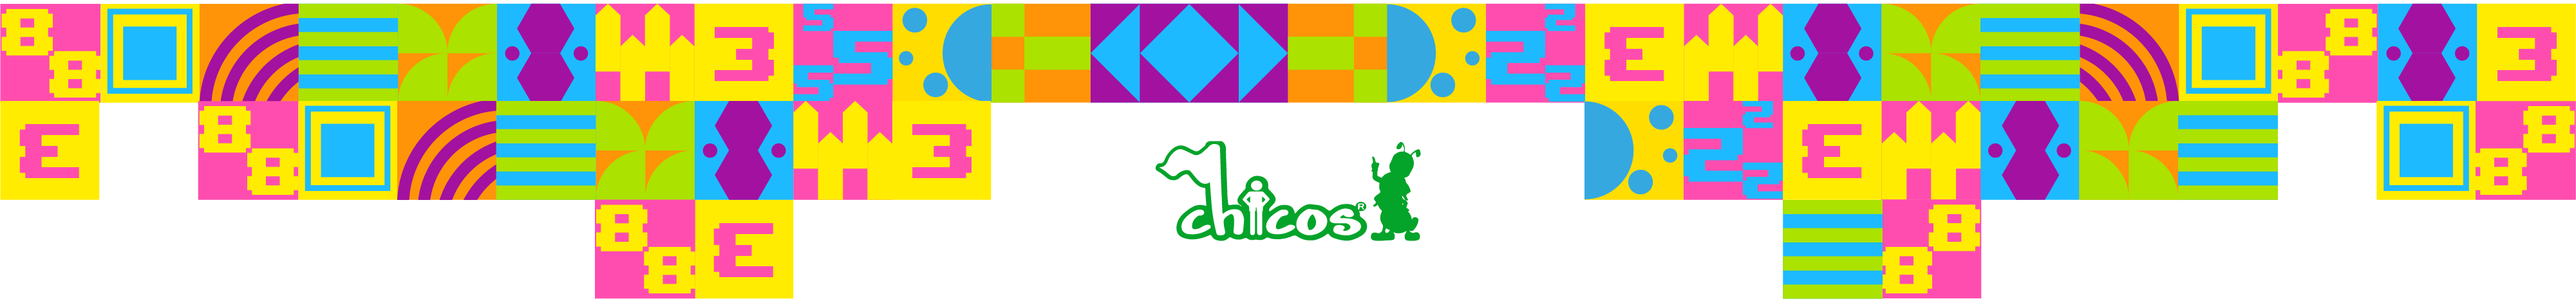
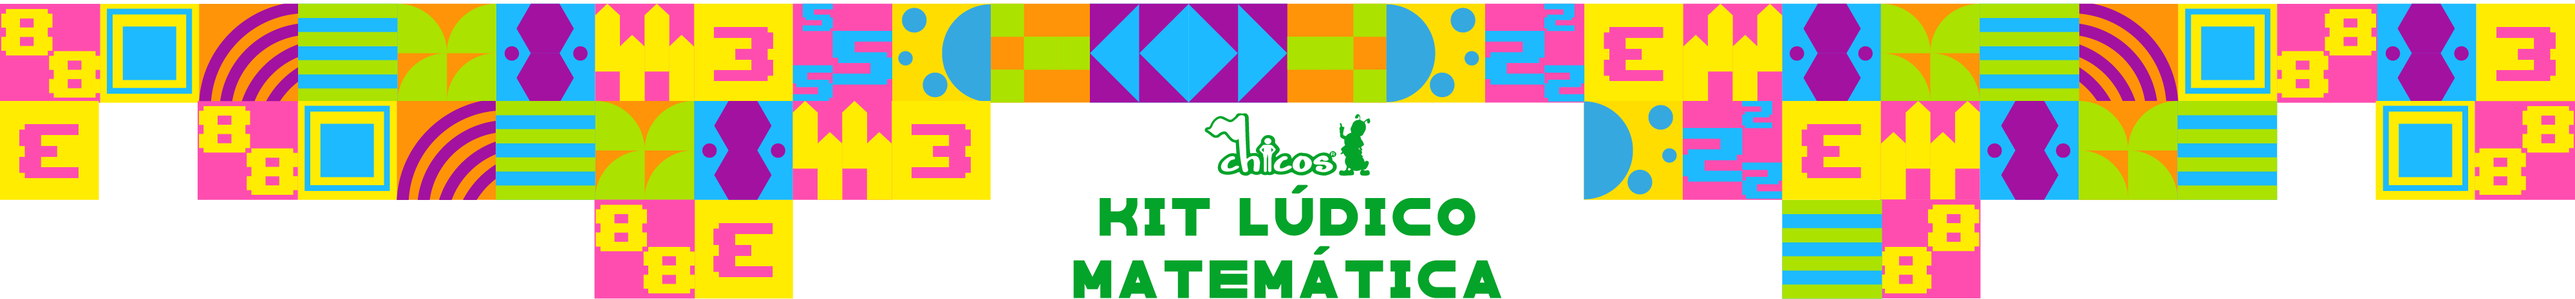
Agregar textos personalizados

Changed region(s): [[0.4062, 0.3914, 0.5938, 0.8129], [0.4062, 0.8731, 0.5938, 1.0]]

diff --git a/static/src/scss/landing.scss b/static/src/scss/landing.scss
@@ -86,7 +86,7 @@
 .btn-detail {
     background-color: #04a32a;
     color: white;
-    font-family: 'Crewniverse';
+    font-family: 'Neris-SemiBold';
 }
 
 .h-singin {
@@ -118,4 +118,13 @@
 
 .ul-features li:before {
     content: '✓';
+}
+
+.title-landing {
+    font-size: 20px !important;
+    margin-top: 3rem !important;
+    margin-bottom: 2rem !important;
+    font-family: 'Crewniverse';
+    color: #04a32a;
+    letter-spacing: 3px;
 }

diff --git a/controllers/email_service.py b/controllers/email_service.py
@@ -96,8 +96,8 @@ def get_message(cliente, institucion, grado, code):
                 </tr>
                 <tr>
                     <td align="center" style="padding: 40px 0 30px 0; color: #04a32a;" colspan="2">
-                        <a style="background-color: #04a32a;color: white; padding: 15px 15px 15px 15px; border-radius: 1.25rem; text-decoration: none; font-size: 20px; margin-top: 15px;" href="/shop/plantilla/{3}">
-                            QUIERO LAS PLANTILLAS
+                        <a style="background-color: #04a32a;color: white; padding: 15px 15px 15px 15px; border-radius: 1.25rem; text-decoration: none; font-size: 20px; margin-top: 15px;" href="https://chicosimagen.com/shop/plantilla/{3}">
+                            DESCARGAR
                         </a>                            
                     </td>
                     <td></td>
